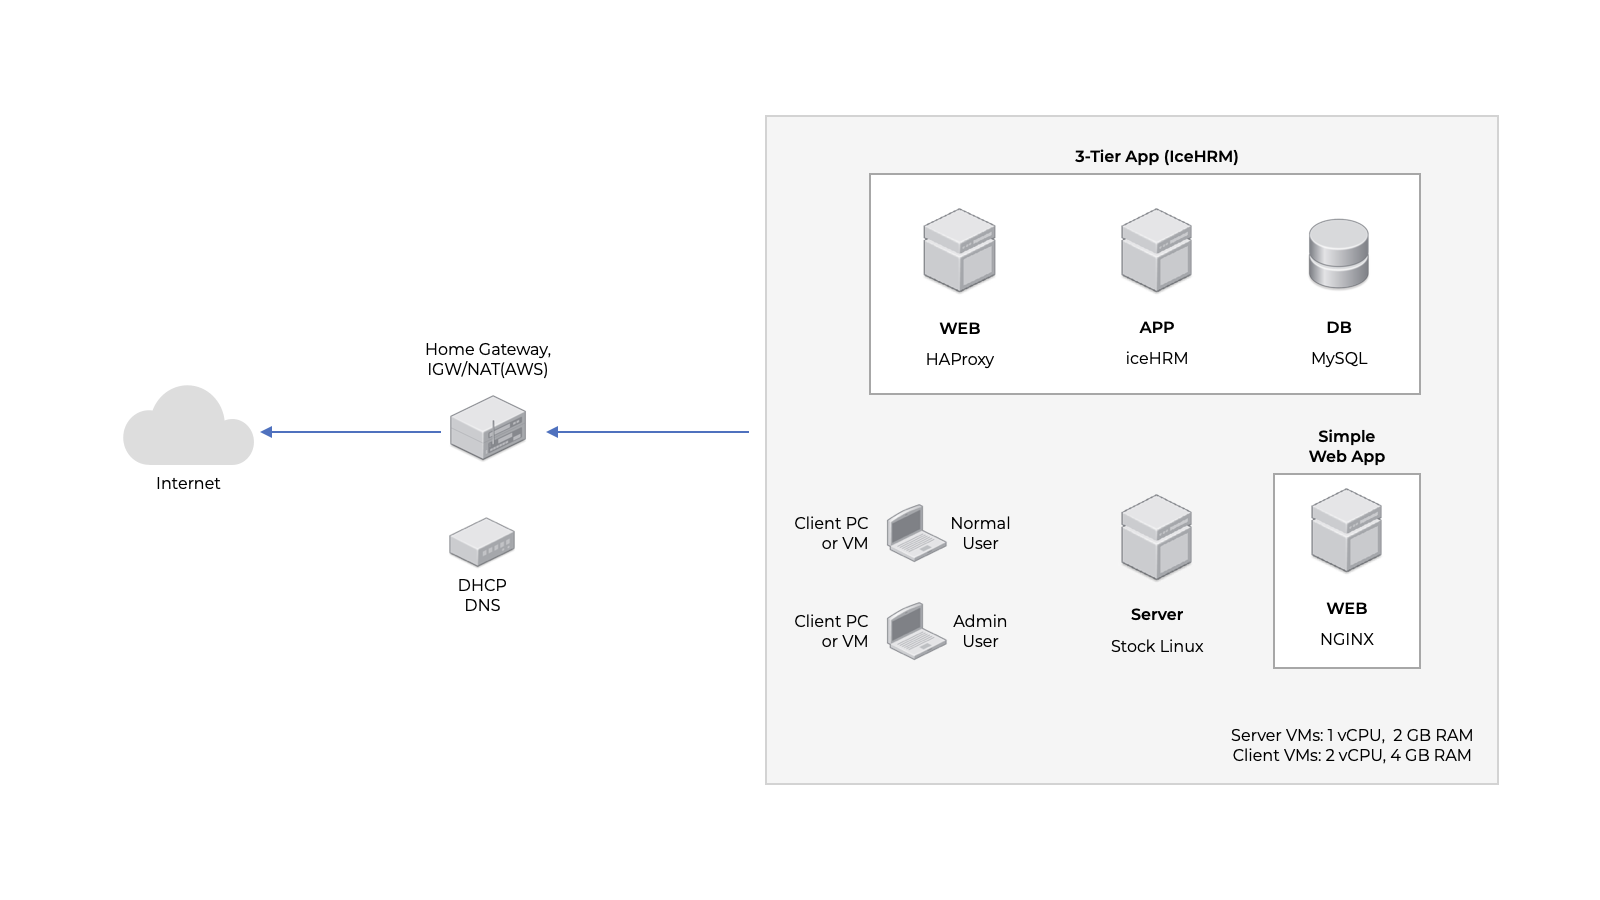
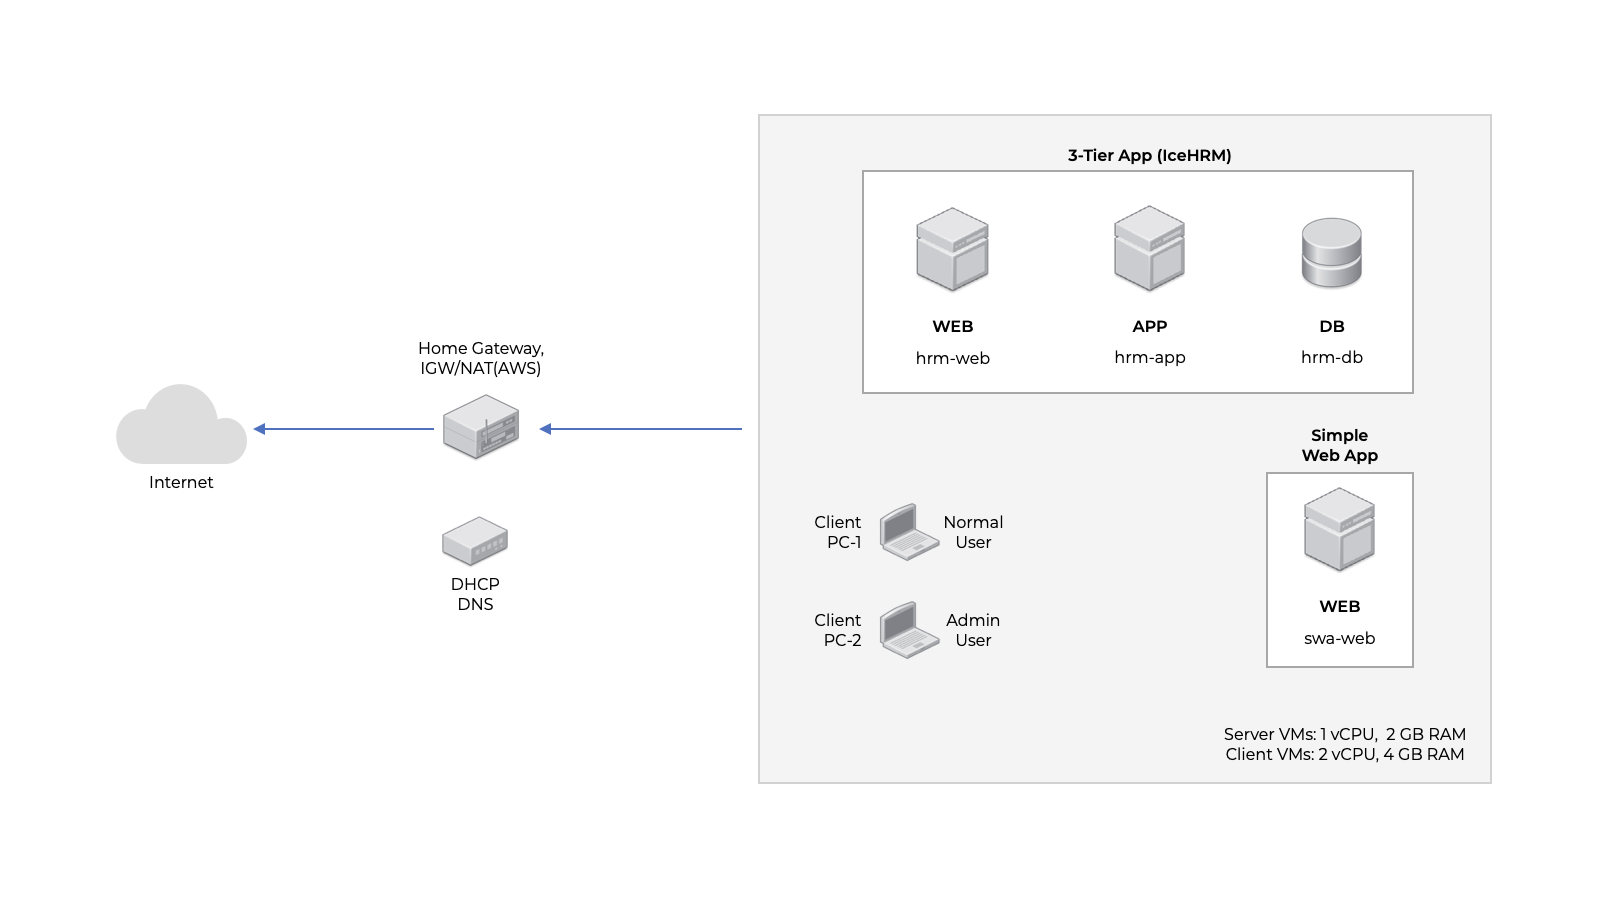
Updated lab diagram and text to remove the stock Linux server

diff --git a/README.md b/README.md
@@ -23,9 +23,6 @@ For the Simple Web App, you can just deploy nginx on a Linux server.
 For example, on a Ubuntu server this would be:
 
 ```
+sudo hostnamectl set-hostname swa-web
 sudo apt install -y nginx
 ```
-
-We also recommend deploying an additional VM running stock Linux. This
-will be handy for demonstrating access controls to and from network
-groups.
